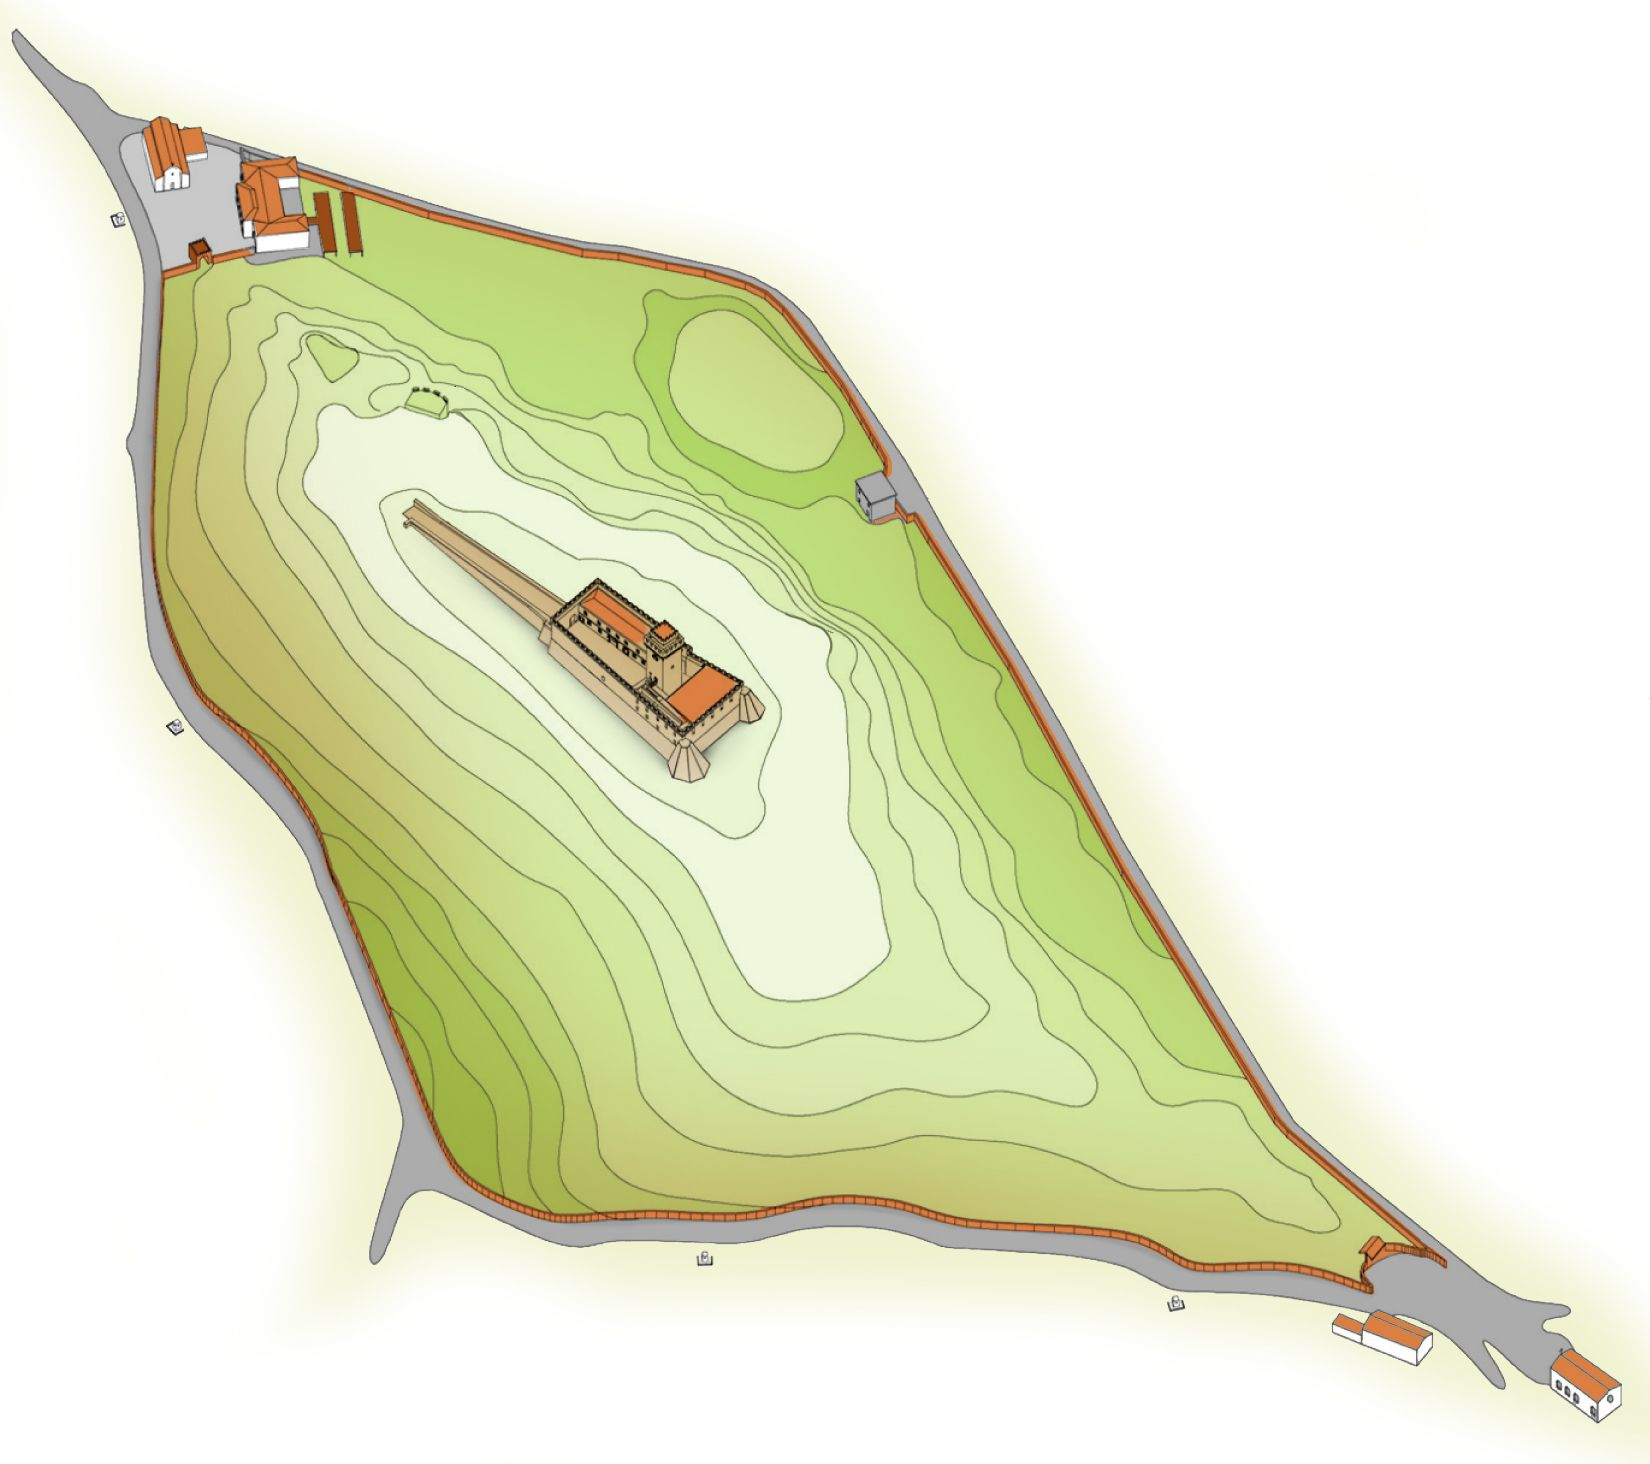
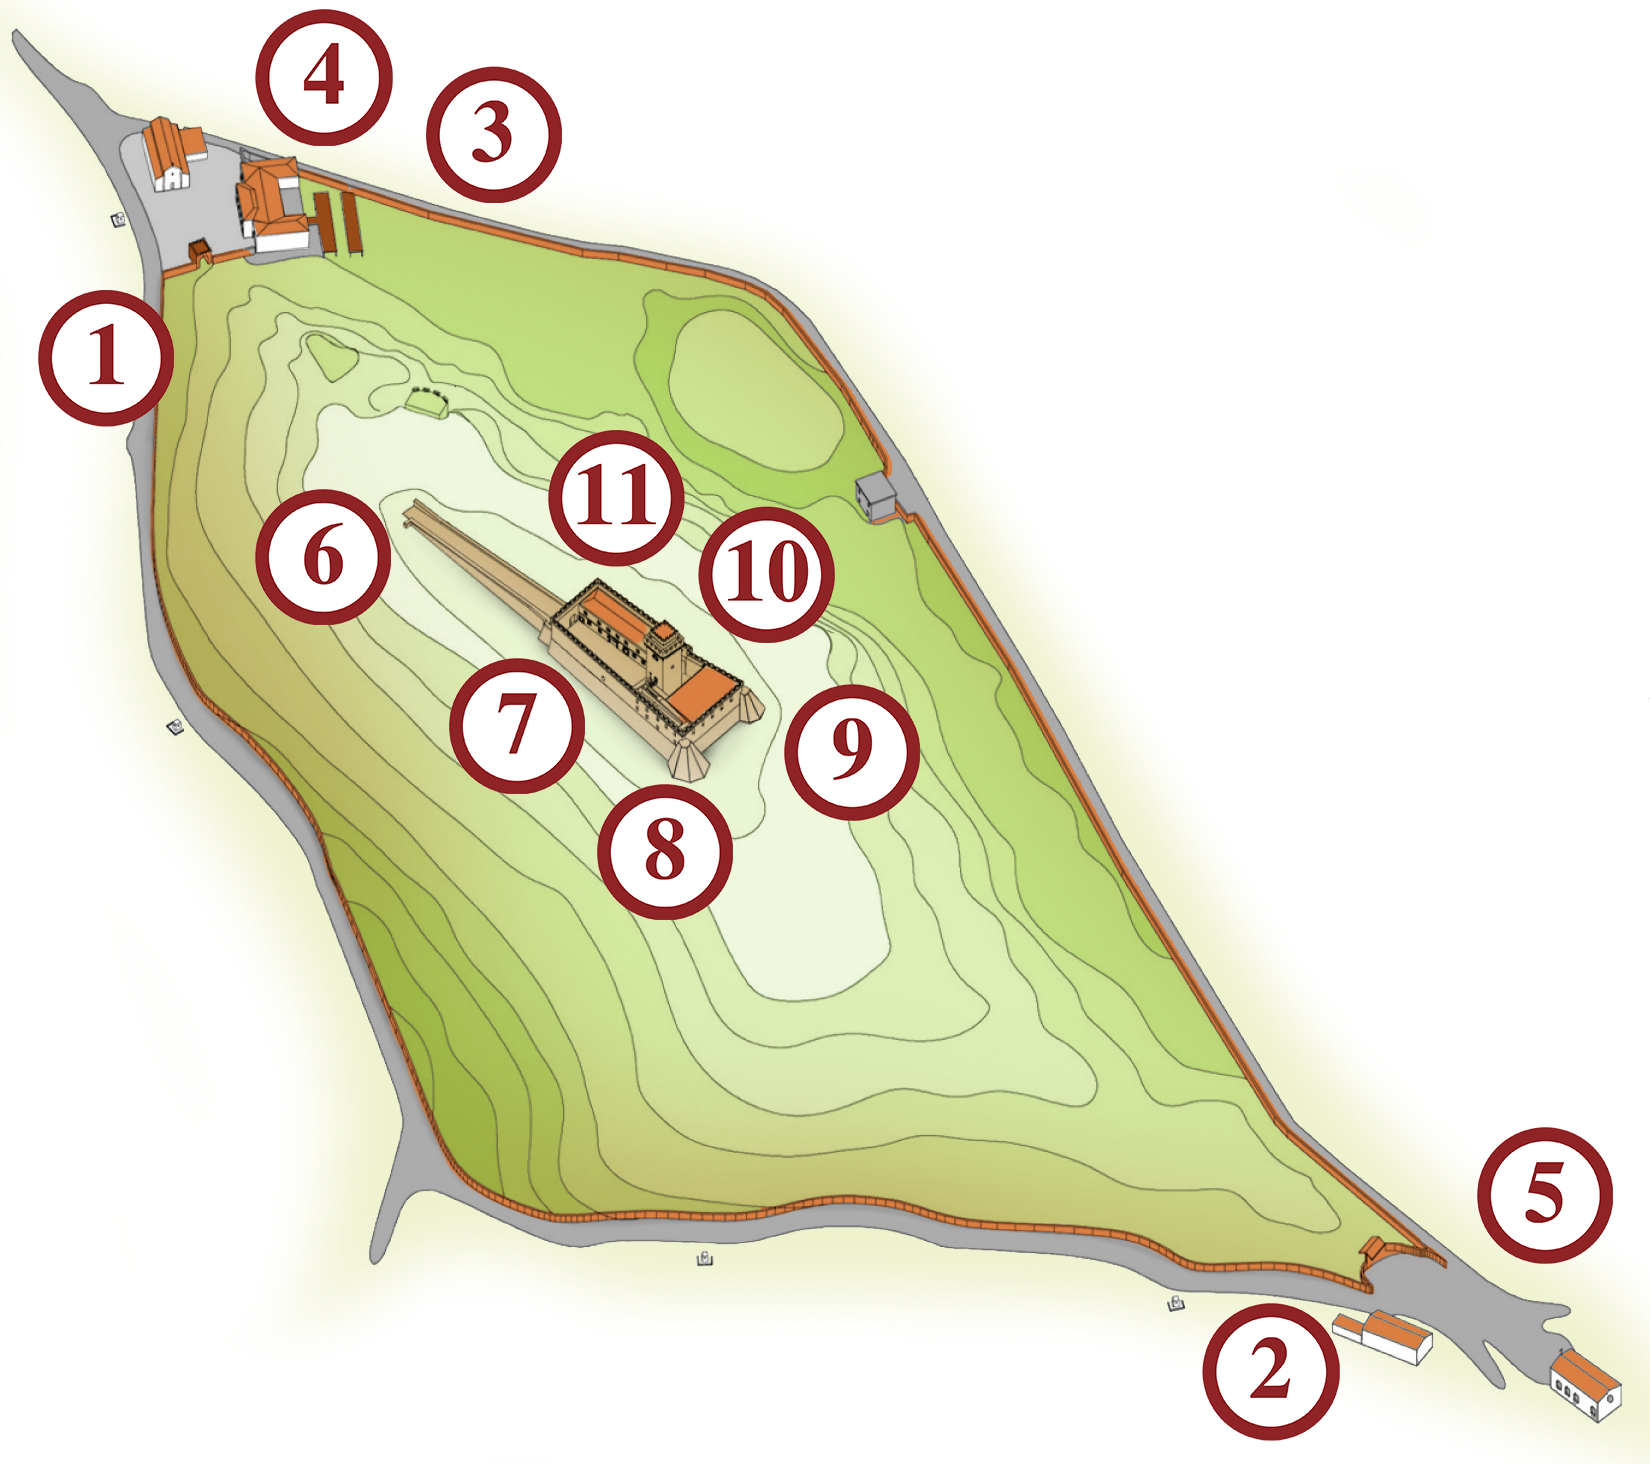
v

diff --git a/www/mappa_origini.html b/www/mappa_origini.html
@@ -88,14 +88,28 @@
 
     <figure class="mbr-figure container">
             <div class="image-block" style="width: 66%;">
-                <img src="assets/images/rocca-delle-caminate-1650x1464.jpg" width="1400" alt="Mobirise" usemap="#Map" title="">
+                <img src="assets/images/rocca-delle-caminate-1650x1464.jpg" width="1400" alt="Mobirise" usemap="#Map" title=""
+				style="padding-top: 50px; padding-bottom: 40px;">
                 
             </div>
     </figure>
-</section><map name="Map" id="image1-12" class="cid-qK6j6Yc2Rr" data-rv-view="198">
-    <area alt="" title="" href="#" shape="poly" coords="73,201,96,233,123,223,124,199,108,183,85,186">
+</section>
 
-</map>
+<map name="map" id="map">
+    <area alt="4" title="" onclick="vai_allo_slider('70')" href="#" shape="poly" coords="52,119,116,110,175,57,144,16,40,11,22,19" />
+    <area alt="3" title="" onclick="vai_allo_slider('69')" href="#" shape="poly" coords="242,161,288,215,349,220,398,179,403,128,371,103,279,73,247,113" />
+    <area alt="1" title="" onclick="vai_allo_slider('55')" href="#" shape="poly" coords="55,294,107,336,207,300,198,238,131,202,79,219" />
+    <area alt="6" title="" onclick="vai_allo_slider('72')" href="#" shape="poly" coords="172,408,205,439,249,438,283,409,291,369,261,335,221,335,179,350" />
+    <area alt="11" title="" onclick="vai_allo_slider('57')" href="#" shape="poly" coords="343,356,348,436,412,429,439,405,465,357,438,327,388,326,376,319" />
+    <area alt="2" title="" onclick="vai_allo_slider('66')" href="#" shape="poly" coords="696,1017,724,1079,780,1063,812,1038,822,993,802,959,742,933,706,964" />
+    <area alt="5" title="" onclick="vai_allo_slider('71')" href="#" shape="poly" coords="902,942,925,1009,1025,985,1007,885,951,885,905,888" />
+    <area alt="7" title="" onclick="vai_allo_slider('73')" href="#" shape="poly" coords="256,535,261,576,362,584,371,533,361,485,316,467,255,470" />
+    <area alt="10" title="" onclick="vai_allo_slider('56')"  href="#" shape="poly" coords="434,449,460,397,499,370,544,384,571,427,572,470,519,497,437,479" />
+    <area alt="8" title="" onclick="vai_allo_slider('74')" href="#" shape="poly" coords="388,658,416,712,498,726,522,672,507,637,423,584" />
+    <area alt="9" title="" onclick="vai_allo_slider('75')"  href="#" shape="poly" coords="518,610,592,631,629,599,635,543,597,522,516,515" />
+
+	</map>
+
 
 <section class="mbr-section content8 cid-qKbNffx94i" id="content8-1b">
 
@@ -104,7 +118,7 @@
     <div class="container">
         <div class="media-container-row title">
             <div class="col-12 col-md-8">
-                <div class="mbr-section-btn align-center"><a class="btn btn-primary display-4" href="indice_origini.html"><span class="mbri-arrow-up mbr-iconfont mbr-iconfont-btn"></span>TORNA ALL'INDICE</a></div>
+                <div  onclick="vai_alla_pagina('indice_origini.html','fade')" class="mbr-section-btn align-center"><a class="btn btn-primary display-4" href="indice_origini.html"><span class="mbri-arrow-up mbr-iconfont mbr-iconfont-btn"></span>TORNA ALL'INDICE</a></div>
             </div>
         </div>
     </div>
@@ -119,7 +133,13 @@
   <script src="assets/dropdown/js/script.min.js"></script>
   <script src="assets/touchswipe/jquery.touch-swipe.min.js"></script>
   <script src="assets/theme/js/script.js"></script>
+   <script src="assets/imagemap/imageMapResizer.min.js"></script>
+  <script>
   
+$(document).ready(function() {
+    $('map').imageMapResize();
+});  
+  </script>
   
 </body>
 </html>

diff --git a/www/location_origini.html b/www/location_origini.html
@@ -85,7 +85,7 @@
 <section class="engine"><a href="https://mobirise.ws/h">make your own website</a></section>
 <section class="carousel slide cid-qK6bnXTYyR" data-interval="false" id="slider1-x">
    <div class="full-screen">
-      <div class="mbr-slider slide carousel" style="height:1000px !important;" data-pause="true" data-keyboard="false" data-ride="false" data-interval="false">
+      <div class="mbr-slider slide carousel"  data-pause="true" data-keyboard="false" data-ride="false" data-interval="false">
          <div class="carousel-inner" role="listbox">
             <div id="div55" class="carousel-item slider-fullscreen-image" data-bg-video-slide="false" style="background-image: url(assets/images/1-carraia-lato-forli-331x328.jpg); height:1000px !important;">
                <div class="container container-slide">

diff --git a/www/assets/bootstrapcarouselswipe/bootstrap-carousel-swipe.js b/www/assets/bootstrapcarouselswipe/bootstrap-carousel-swipe.js
@@ -71,9 +71,9 @@
 
         var dt = (e.timeStamp - this.startTime) / 1000
         var speed = Math.abs(this.dx / dt) // percent-per-second
-        if (this.dx > 80 || (this.dx > 0 && speed > this.options.swipe)) {
+        if (this.dx > 90 || (this.dx > 0 && speed > this.options.swipe)) {
             this.carousel.prev()
-        } else if (this.dx < -80 || (this.dx < 0 && speed > this.options.swipe)) {
+        } else if (this.dx < -90 || (this.dx < 0 && speed > this.options.swipe)) {
             this.carousel.next();
         } else {
             this.$active
